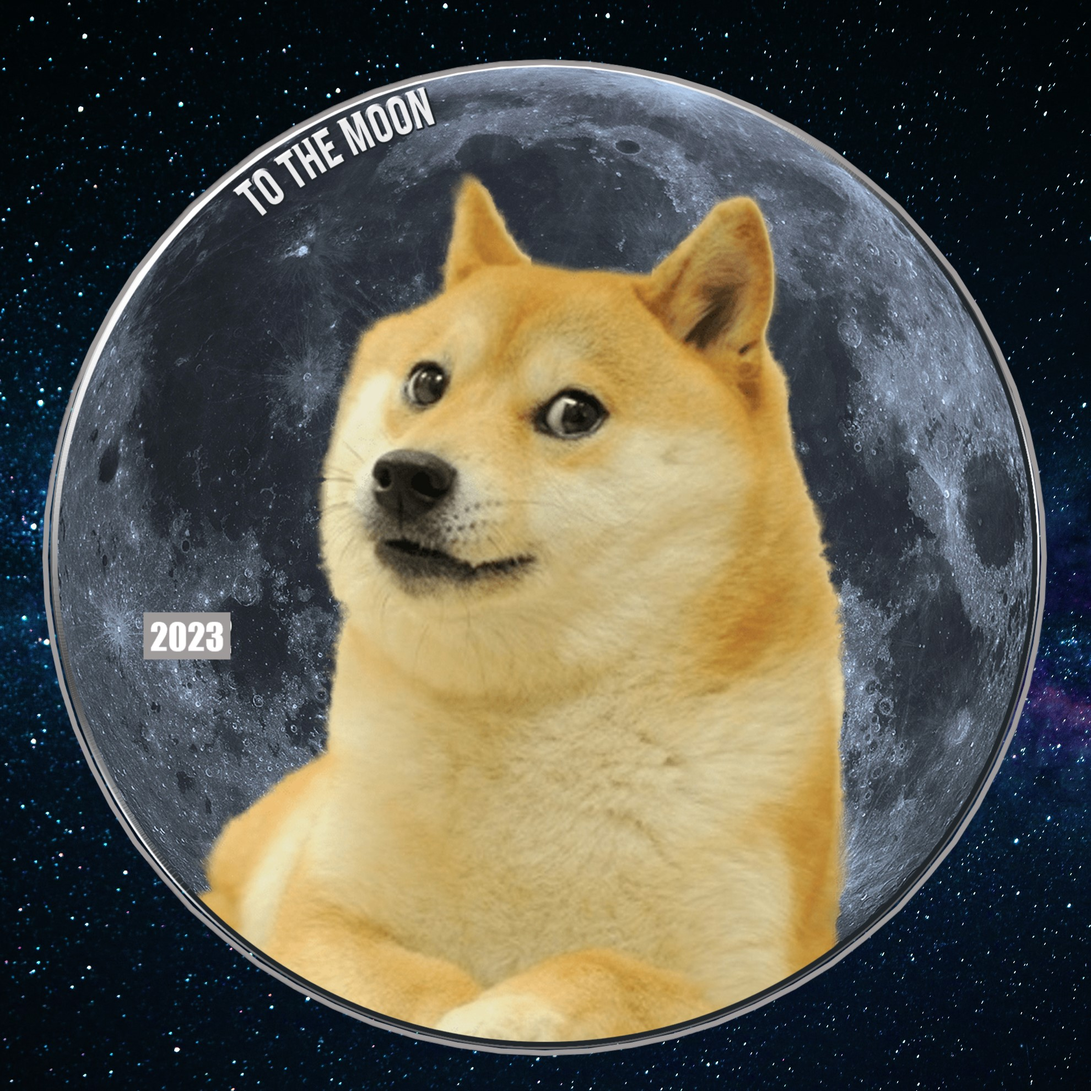
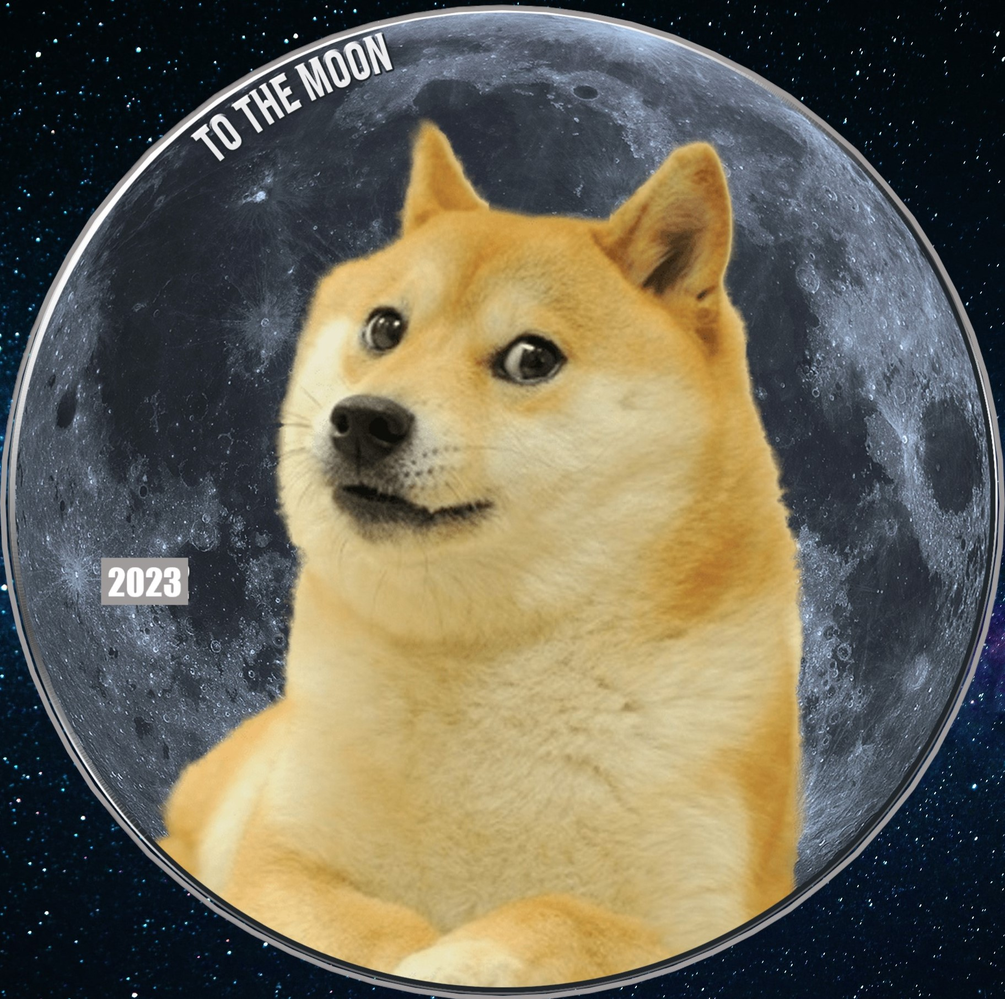
css and html

diff --git a/assets/css/style.css b/assets/css/style.css
@@ -3,50 +3,61 @@
     --blue: #19255c;
     --ltblue: #2e76c9dc;
     --grey: #3a3e42;
+    --footergrey:  #25282ba2;
     --offwhite: rgb(132, 186, 202);
-    --footer: #113c68b9;
     --answer: #27313b7c;
+    --white: #fff;
+    --c1: #1d1d1d;
+    --c2: #4e4f51;
+    --c3: #3c3c3c;
 }
-  
-  .h1text {
-    color: var(--gold);
-    text-align: center;
-    margin: 0;
-    width: 100%;
-    position: absolute;
-    font-size: 50px;
-  }
-  header {
+
+header {
     background-color: var(--blue);
     width: 100%;
-    padding-top: 50px;
-    color: #fff;
+    padding-top: 80px;
+    color: var(--white);
     text-align: center;
     box-sizing: border-box;
-    background-image: url("../img/space1.jpg");
+    background-image: url("../img/space.jpg");
     background-size: cover;
-  }
+}
+
+#container {
+    max-width:1250px;
+}
+
+h1 {
+    color: var(--gold);
+    text-align: center;
+    margin-right: -25px;
+    width: 100%;
+    position: absolute;
+    font-size: 80px;
+    font-family: courier;
+    padding-bottom: 50px;
+}
   
-  nav {
+nav {
     display: flex;
     justify-content: flex-end;
     align-items: center;
     padding: 10px;
-  }
+}
   
-  .menu {
+.menu {
     position: relative;
-  }
+}
   
-  .dropdownBtn {
+.dropdownBtn {
     padding: 10px 60px;
     background-color: var(--offwhite);
     border:var(--grey);
     border-radius: 5%;
     cursor: pointer;
-  }
+}
   
-  .dropdownContent {
+.dropdownContent {
     display: none;
     position: absolute;
     top: 75%;
@@ -56,77 +67,37 @@
     padding: 30px;
     z-index: 1;
     border-radius: 5%;
-  }
+}
   
-  .dropdownContent a {
+.dropdownContent a {
     display: block;
     text-align: center;
     font-size: 35px;
     padding: 5px;
     color: var(--gold);
-  }
+}
   
-  .dropdownBtn:hover,
-  .dropdownContent a:hover {
+.dropdownBtn:hover,
+.dropdownContent a:hover {
     background-color: var(--grey);
-  }
+}
   
-  .dropdownBtn:focus + .dropdownContent,
-  .dropdownContent:hover {
+.dropdownBtn:focus + .dropdownContent,
+.dropdownContent:hover {
     display: block;
-  }
-  
+}
+
 body {
+    margin: 0;
+    font-family: Arial, sans-serif;
     display: flex;
     flex-direction: column;
     align-items: center;
     justify-content: center;
     min-height: 100vh;
-  }
-  
-  .container {
-    text-align: center;
-  }
-  
-  footer {
-    display: flex;
-    flex-wrap: wrap;
-    justify-content: space-evenly;
-    align-items: center;
-    color: var(--gold);
-    background-color: var(--footer);
-    text-align: center;
-    width: 95%;
-    padding-bottom: 10px;
-    font-size: 80%;
-    background-image: url("../img/space.jpg");
-    background-size: cover;
-  }
-  
-  body {
-    font-family: Arial, sans-serif;
-    margin: 0;
-    padding: 0;
-  }
-  
-  .container {
-    margin-top: 20px;
-  }
-  
-  footer h2 {
-    margin-bottom: px;
-  }
-  
-  .container {
-    text-align: center;
-    margin-top: 100px;
-  }
-  
-  .question {
-    text-align: center;
-  }
+}
 
-  .moon {
+.moon {
     position: relative;
     width: 500px;
     height: 500px;
@@ -137,66 +108,103 @@ body {
     animation: shake 0.6s infinite linear;
     animation-play-state: paused;
     margin-top: 10%;
-  }
-  
-  .answer {
-    position: absolute;
-    top: 50%;
-    left: 50%;
-    transform: translate(-50%, -50%);
-    font-size: 24px;
-    color: #fff;
-    text-align: center;
-    padding: 20px;
-  }
-  
-  button {
+    margin-bottom: -6%;
+}
+
+button {
     padding: 15px 40px;
     margin-bottom: 10px;
     font-size: 24px;
     border-radius: 5%;
     background-color: var(--ltblue);
-    color: #fff;
+    color: var(--white);
     border: none;
     cursor: pointer;
-  }
-  html {
-    --s: 200px; /* control the size */
-    --c1: #1d1d1d;
-    --c2: #4e4f51;
-    --c3: #3c3c3c;
-    
-    background:
-      repeating-conic-gradient(from 30deg,#0000 0 120deg,var(--c3) 0 180deg) 
-       calc(.5*var(--s)) calc(.5*var(--s)*0.577),
-      repeating-conic-gradient(from 30deg,var(--c1) 0 60deg,var(--c2) 0 120deg,var(--c3) 0 180deg);
-    background-size: var(--s) calc(var(--s)*0.577);
+}
 
-  }
+.question {
+    text-align: center;
+}
   
-  h3 {
-    color: white;
-    margin: 80px 0px -5px 0px;
-  }
+.answer {
+    position: absolute;
+    top: 50%;
+    left: 50%;
+    transform: translate(-50%, -50%);
+    font-size: 24px;
+    color: var(--white);
+    text-align: center;
+    padding: 20px;
+}
+  
+.container {
+    text-align: center;
+}
 
-  h4 {
-    color: white;
-  }
-
-  .crypto-name {
+.crypto-name {
     background-color: var(--grey);
     font-size: 30px;
     margin-top: 25px;
     padding: 10px;
-  }
+}
 
-  .crypto-market-data {
+.crypto-market-data {
     padding: 10px;
     font-size: 20px;
     background-color: var(--grey);
-  }
+}
 
-  .crypto-graph {
+.crypto-graph {
     background-color: var(--grey);
-  }
+}
+  
+h3 {
+    font-size: 25px;
+    color: white;
+    margin: 50px 0px -10px 0px;
+    text-align: center;
+}
 
+h4 {
+    font-size: 18px;
+    color: white;
+    text-align: center;
+    margin-bottom: 50px;
+}
+ 
+footer {
+    display: flex;
+    justify-content: space-evenly;
+    align-items: center;
+    text-align: center;
+    width: 90%;
+    background-image: url("../img/space1.jpg");
+    background-size:cover;
+}
+
+.contact {
+    background-color: var(--footergrey);
+    color:var(--gold);
+    font-size: 24px;
+    padding: 20px;
+    margin-right: 40px;
+    border-radius: 4%;
+}
+
+.contactInfo {
+    background-color: var(--footergrey);
+    color:var(--gold);
+    font-size: 18px;
+    margin-right: 40px;
+}
+  
+html {
+    margin: 0;
+    --s: 200px; /* control the size */
+    background:
+    repeating-conic-gradient(from 30deg,#0000 0 120deg,var(--c3) 0 180deg) 
+    calc(.5*var(--s)) calc(.5*var(--s)*0.577),
+    repeating-conic-gradient(from 30deg,var(--c1) 0 60deg,var(--c2) 0 120deg,var(--c3) 0 180deg);
+    background-size: var(--s) calc(var(--s)*0.577);
+}
+  

diff --git a/index.html b/index.html
@@ -11,7 +11,7 @@
 <body>
     <header>
         <nav>
-            <h1 class="h1text">The Moon't Ball</h1>
+            <h1>The Moon't Ball</h1>
             <div class="menu">
                 <button class="dropdownBtn">Saved</button>
                 <div class="dropdownContent"></div>
@@ -19,42 +19,38 @@
         </nav>
     </header>
     <main>
+        <div>
+            <h3><strong>Is it to the Moon?!</strong></h3>
+            <h4>Time to buy... or to go to work.</h4>
+        </div>
         <div style="margin-bottom: 10%;">
             <div class="moon">
                 <div class="answer" id="answer"></div>
             </div>
-            <br>
-         </div>
-    <section>
-
+        </div>
         <section class="question">
-
             <button id="shake-button" onclick="handleMagic8BallShake()">Shake</button>
             <div id="nut"></div>
-            <h3><strong>Is it to the Moon?!</strong></h3>
-            <h4>Time to buy... or to go to work.</h4>
-
         </section>
+        <div>
+            <h3><strong>you're welcome</strong></h3>
+            <h4>buy it.</h4>
+        </div>
     </main>
     <footer>
         <section>
-        <h2>Contact</h2>
-            <p>123 Street, City</p>
+            <p class="contact">Email</p>
+            <p><a class="contactInfo" href="gpeck@instructors.2u.com">gpeck@instructors.2u.com</a></p>
         </section>
         <section>
-            <h2>Email</h2>
-            <p><a href="mailto:info@example.com">info@example.com</a></p>
+            <p class="contact">Phone</p>
+            <p class="contactInfo">+2484345508</p>
         </section>
         <section>
-            <h2>Phone</h2>
-            <p>+1234567890</p>
-        </section>
-        <section>
-            <h2>Social Media</h2>
-            <p>Follow us on Twitter</p>
+            <p class="contact">Social Media</p>
+            <p class="contactInfo">@The Crypto Bros</p>
         </section>
     </footer>
-
     <script src="Assets\js\script.js"></script>
 </body>
 
